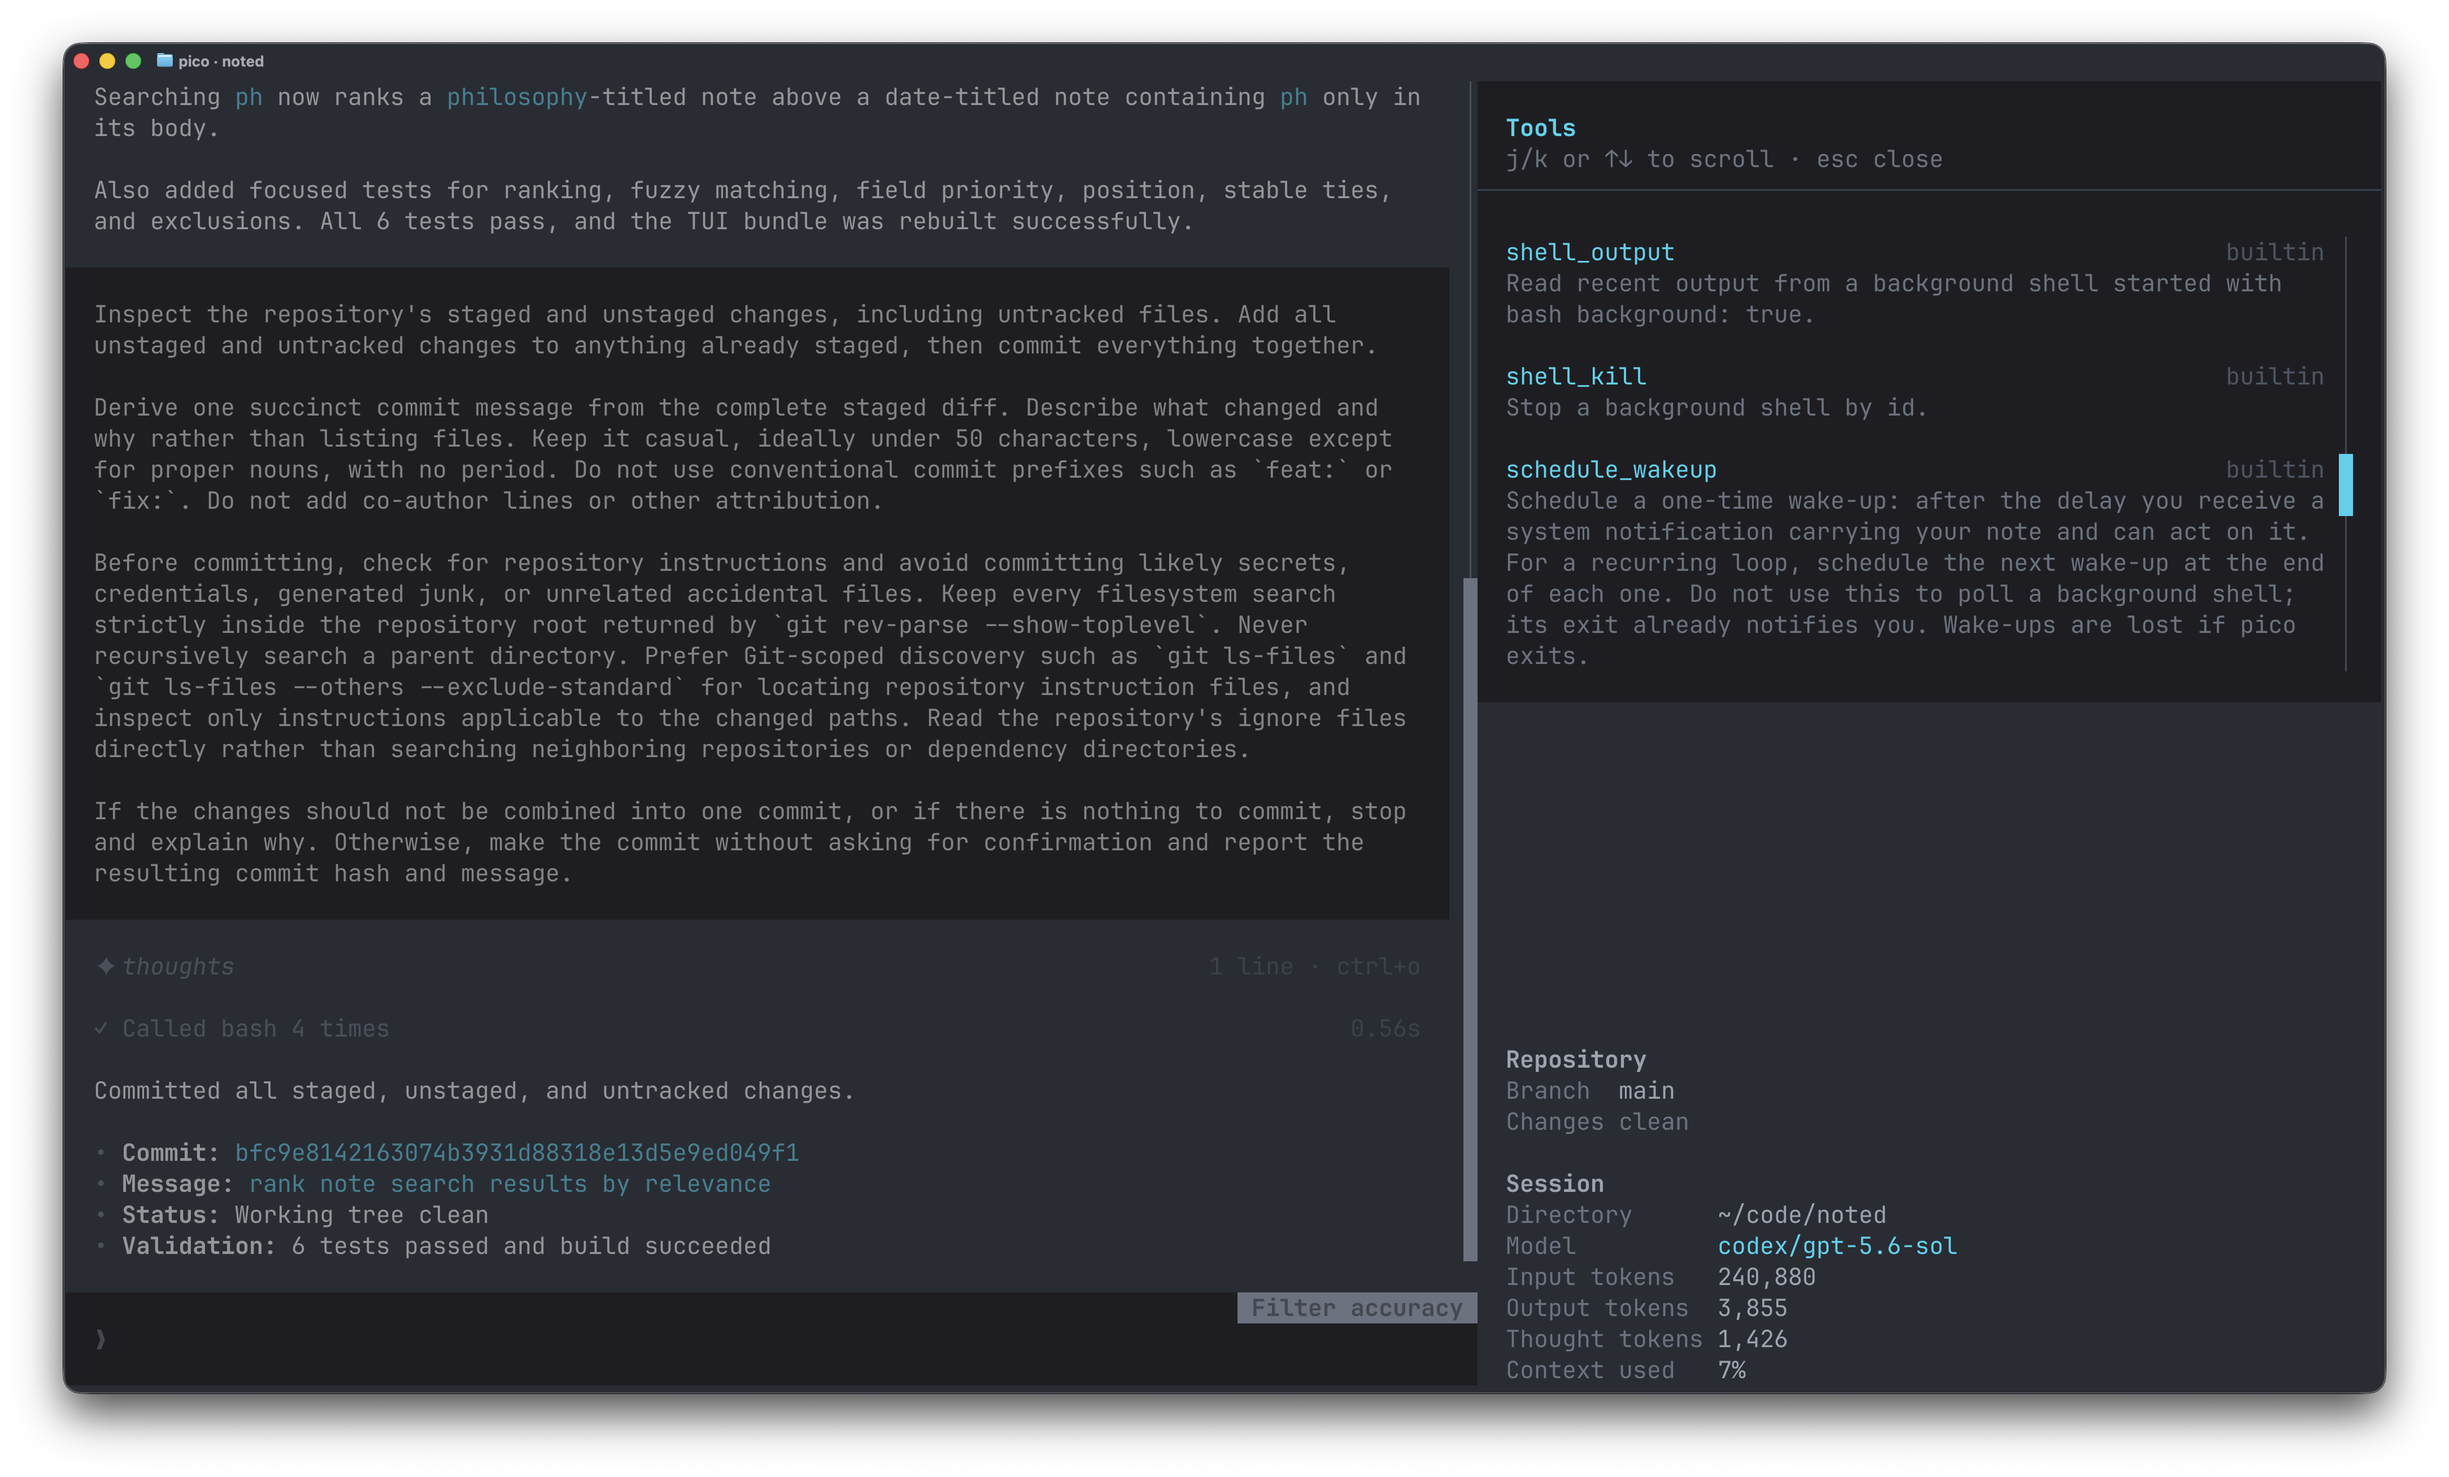
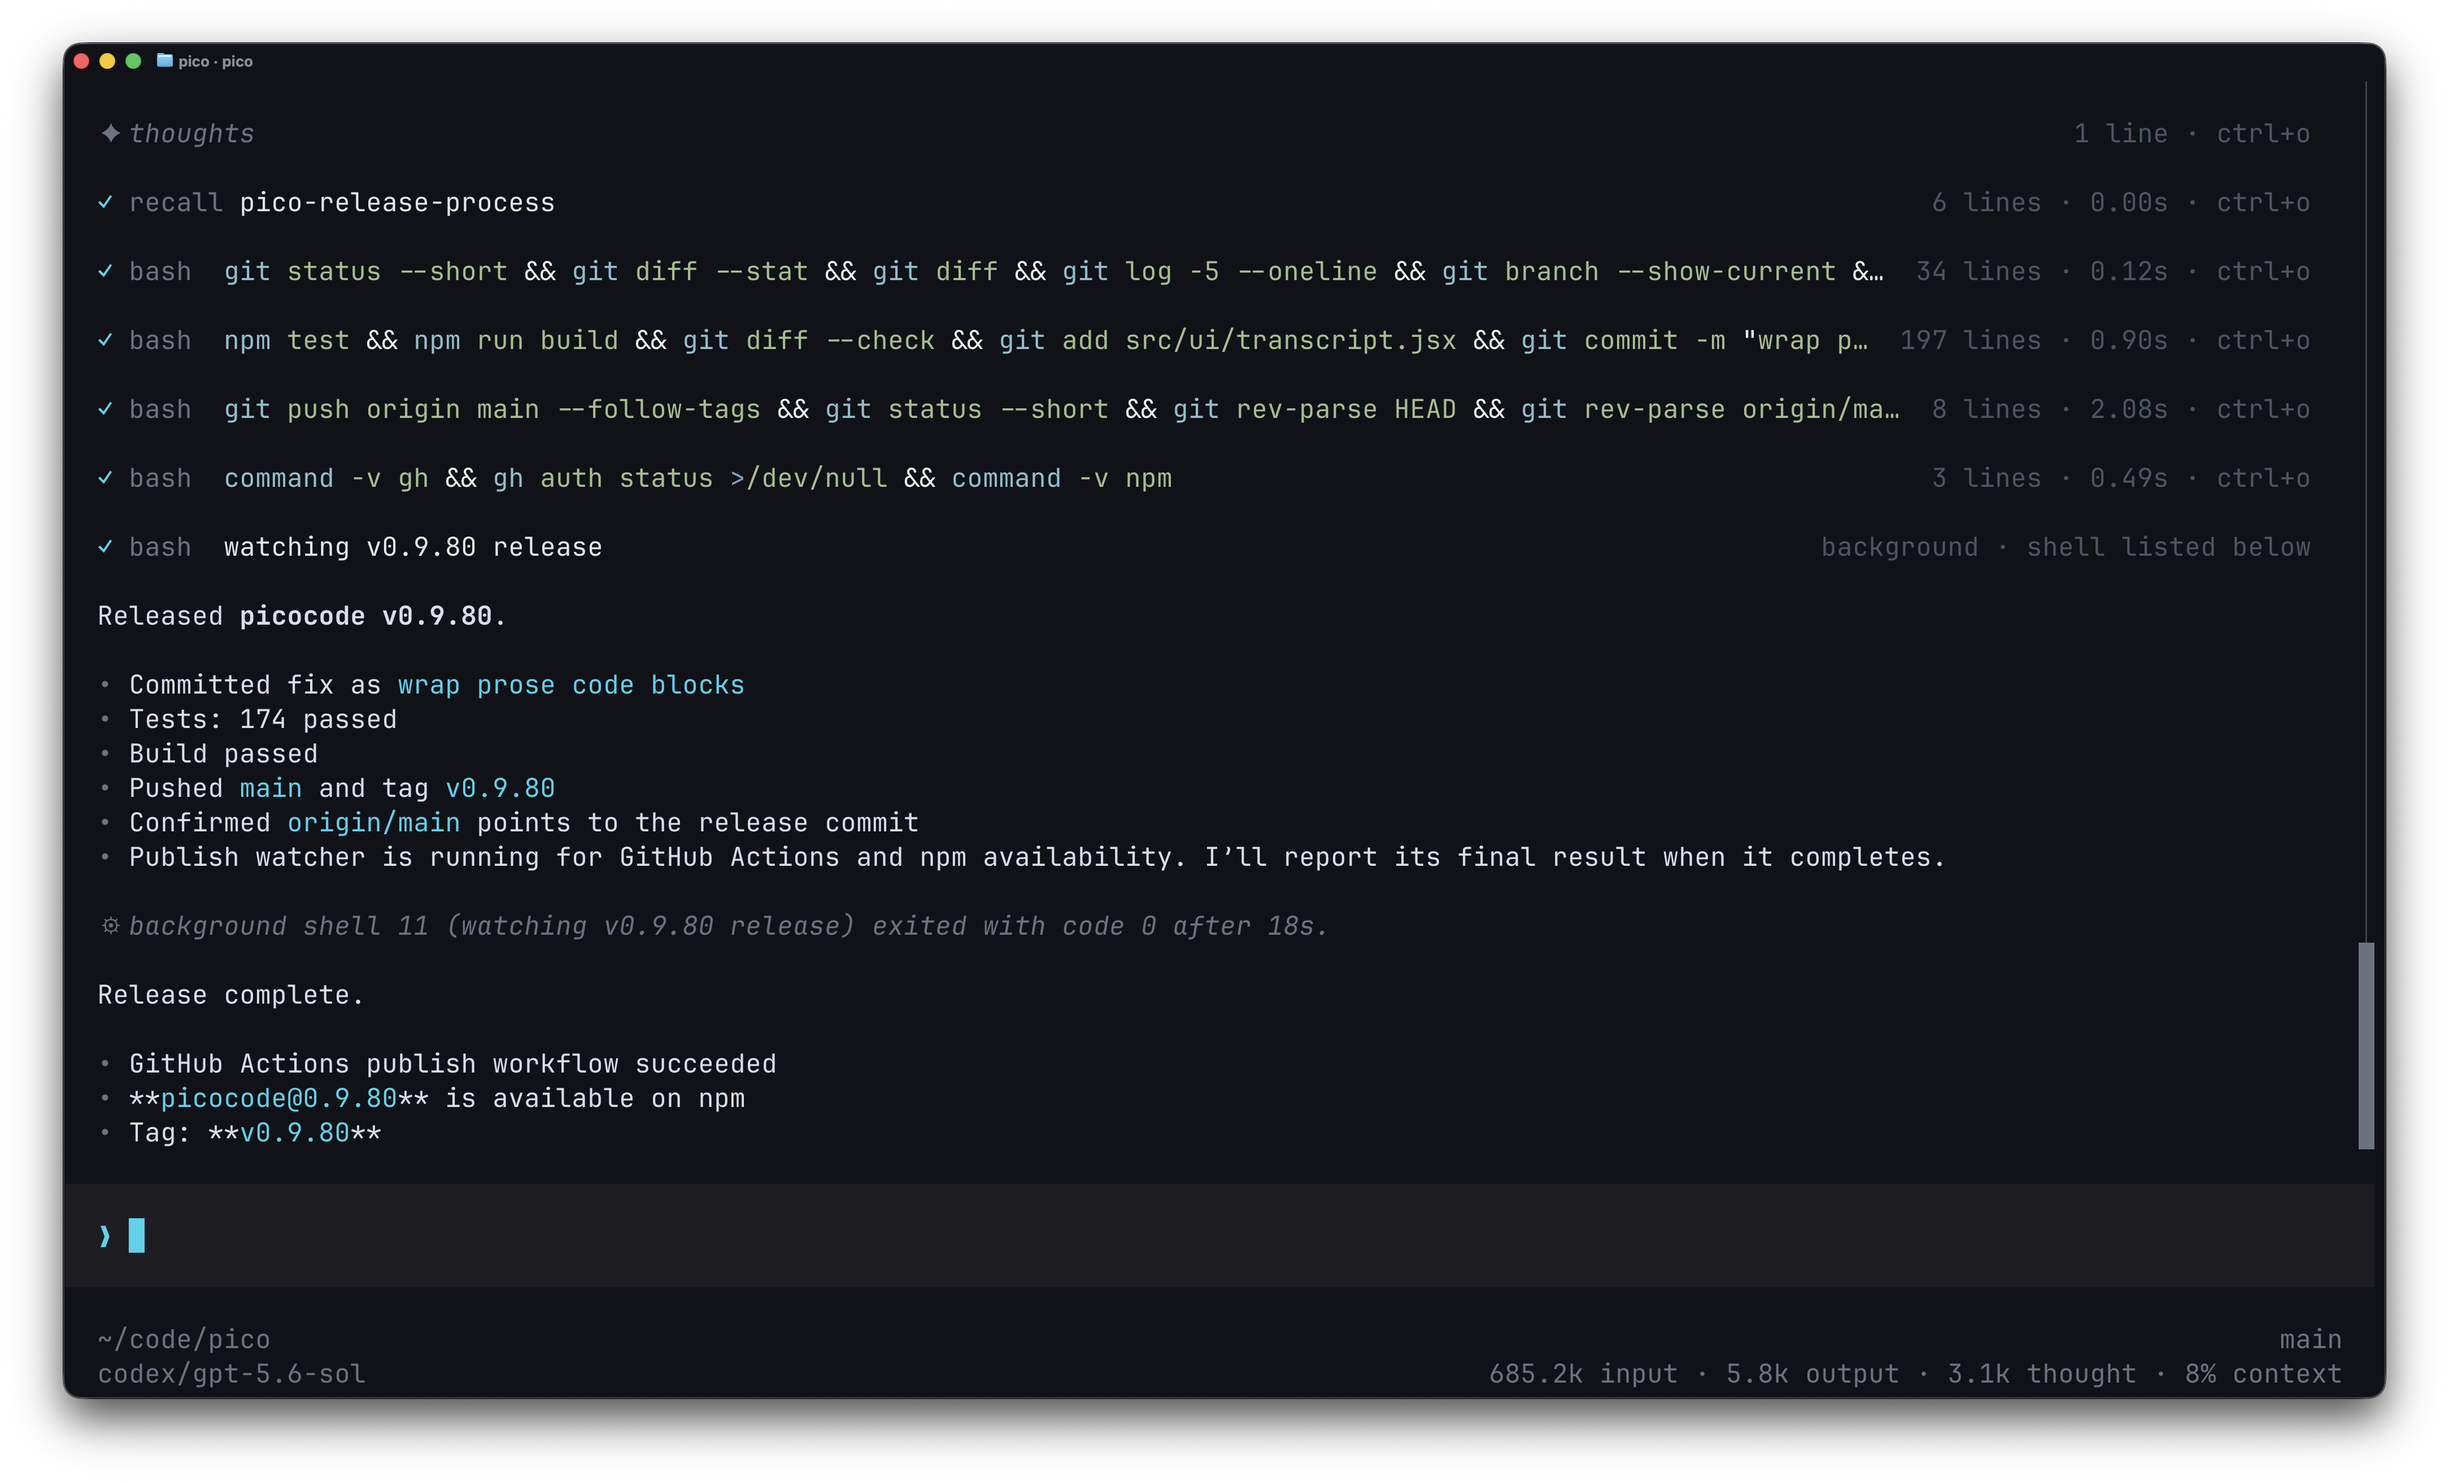
update readme screenshot

diff --git a/README.md b/README.md
@@ -5,10 +5,6 @@ A coding agent that runs in your terminal. Rendering is [@trendr/core](https://g
 
 ![pico terminal interface](.github/assets/pico.png)
 
-<p align="center">
-  <img src=".github/assets/quick-task.gif" alt="pico demo">
-</p>
-
 ## Install
 
 ```
